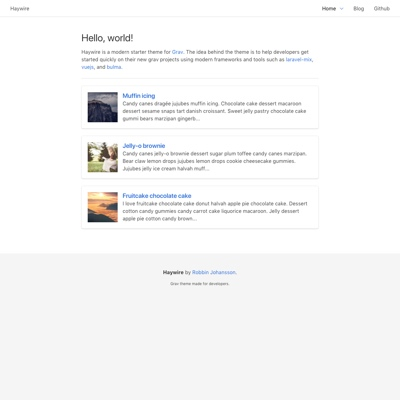
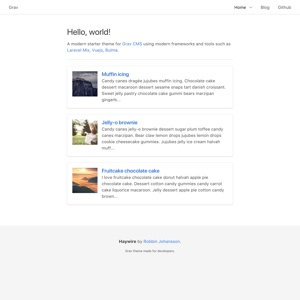
Update theme screenshot/thumbnail size

diff --git a/CHANGELOG.md b/CHANGELOG.md
@@ -1,9 +1,12 @@
 # TBD
 ## TBD
 
-1. [](#improved)
+1. [](#new)
+    * Add favicon
+2. [](#improved)
     * Improve page blueprints
     * Improve theme settings
+    * Update theme screenshot/thumbnail size
 
 # v0.3.5
 ## 02/12/2018
